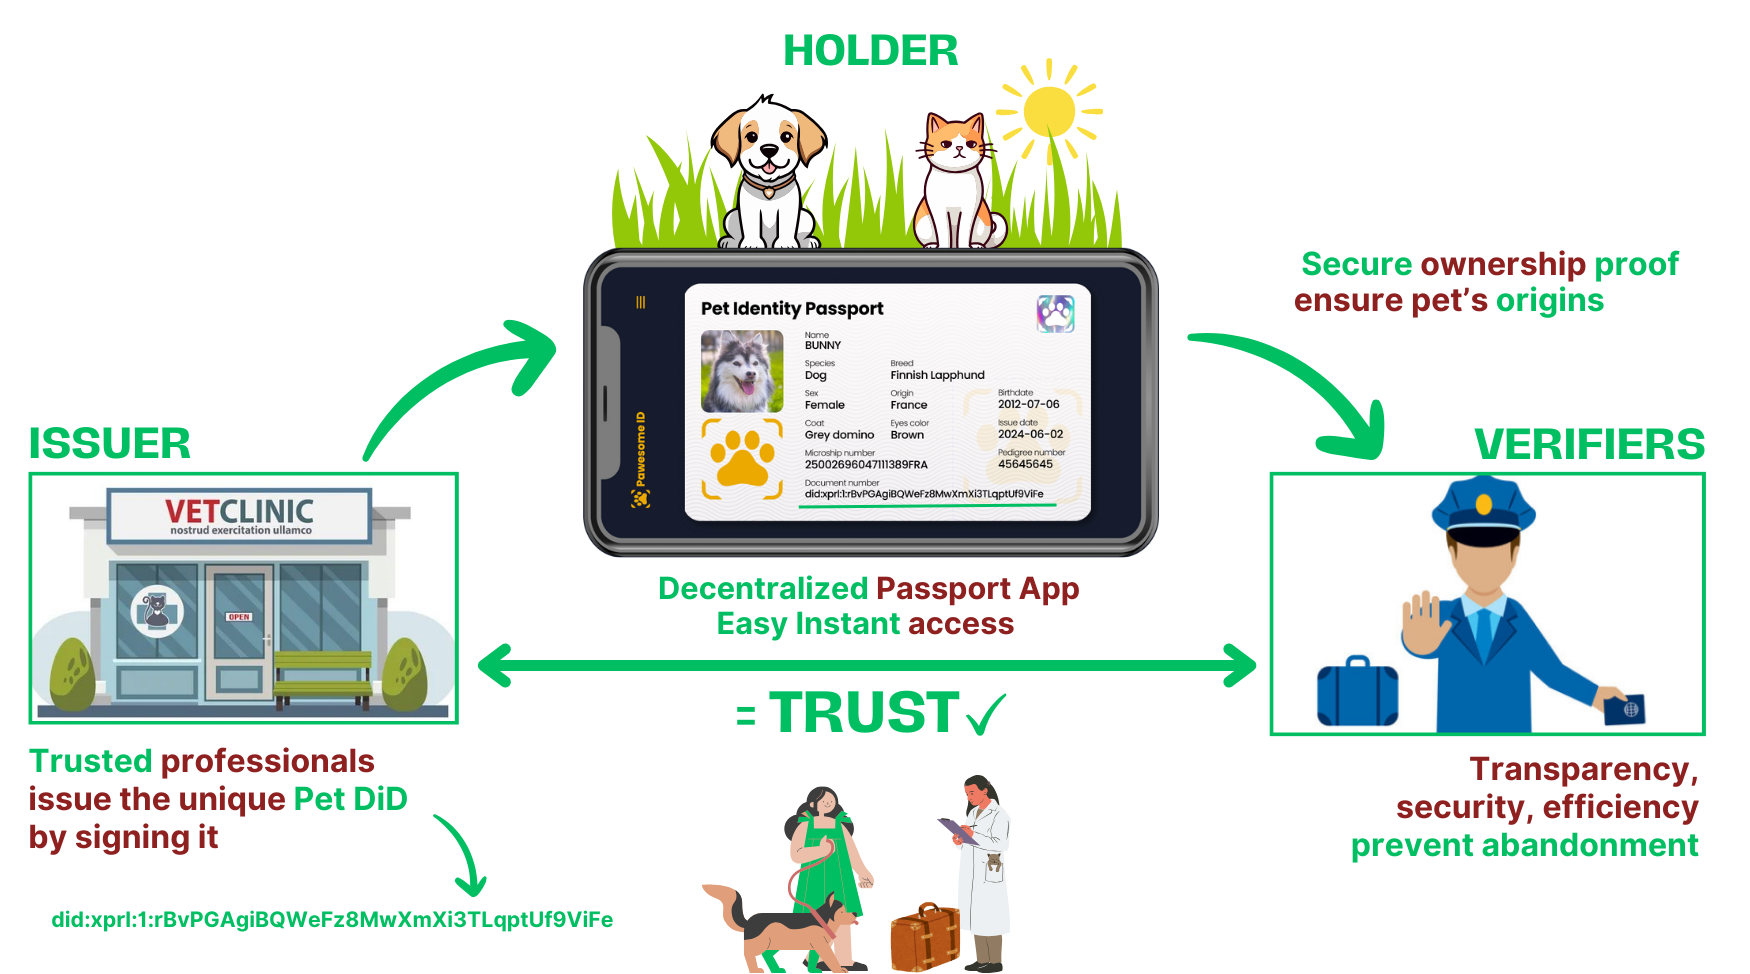
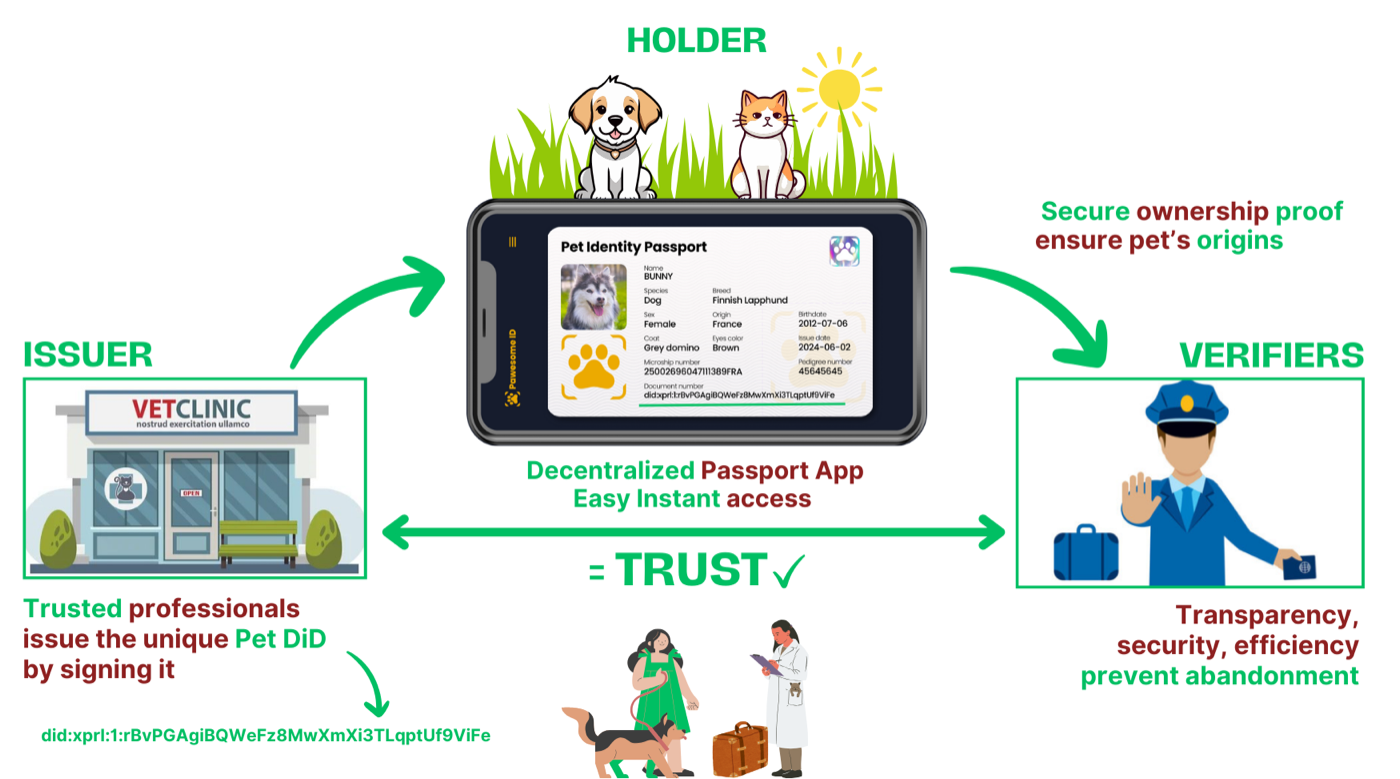
fix(landing): schéma solution.png rendu blanc par l'optimiseur next/image
L'image se chargeait (naturalWidth OK) mais peignait blanc via les
variantes de l'optimiseur : les deux usages passent en unoptimized
(image statique servie telle quelle) + compression 1750px→1400px.
Vérifié visuellement en local (FR et EN).

diff --git a/src/components/Solution.tsx b/src/components/Solution.tsx
@@ -12,7 +12,8 @@ export default function Solution() {
           {t({ en: "Our Solution", fr: "Notre solution" })}
         </h1>
         <div className="flex justify-center items-center mt-12 pb-12">
-          <Image src="/images/solution.png" alt="Pet" width="1200" height="500" />
+          <Image src="/images/solution.png"
+          unoptimized alt="Pet" width="1200" height="500" />
         </div>
       </section>
     </>

diff --git a/src/components/HowItWorks.tsx b/src/components/HowItWorks.tsx
@@ -87,6 +87,7 @@ export default function HowItWorks() {
         </h3>
         <Image
           src="/images/solution.png"
+          unoptimized
           alt="Schema: the vet clinic issues the Pet DID, the owner holds the passport, verifiers check it on the XRP Ledger"
           width={1100}
           height={620}
